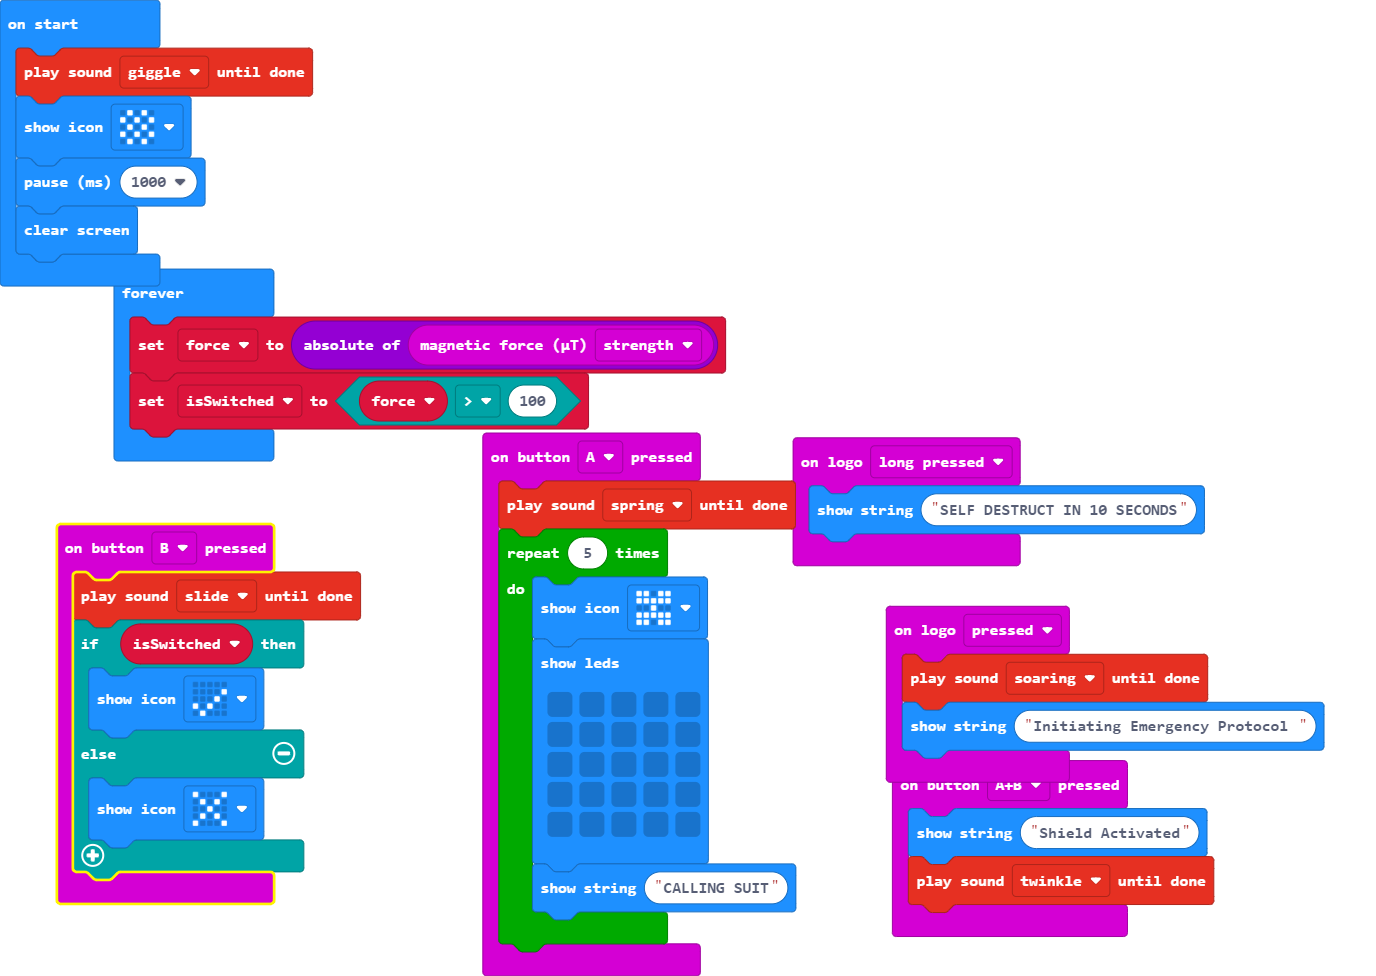
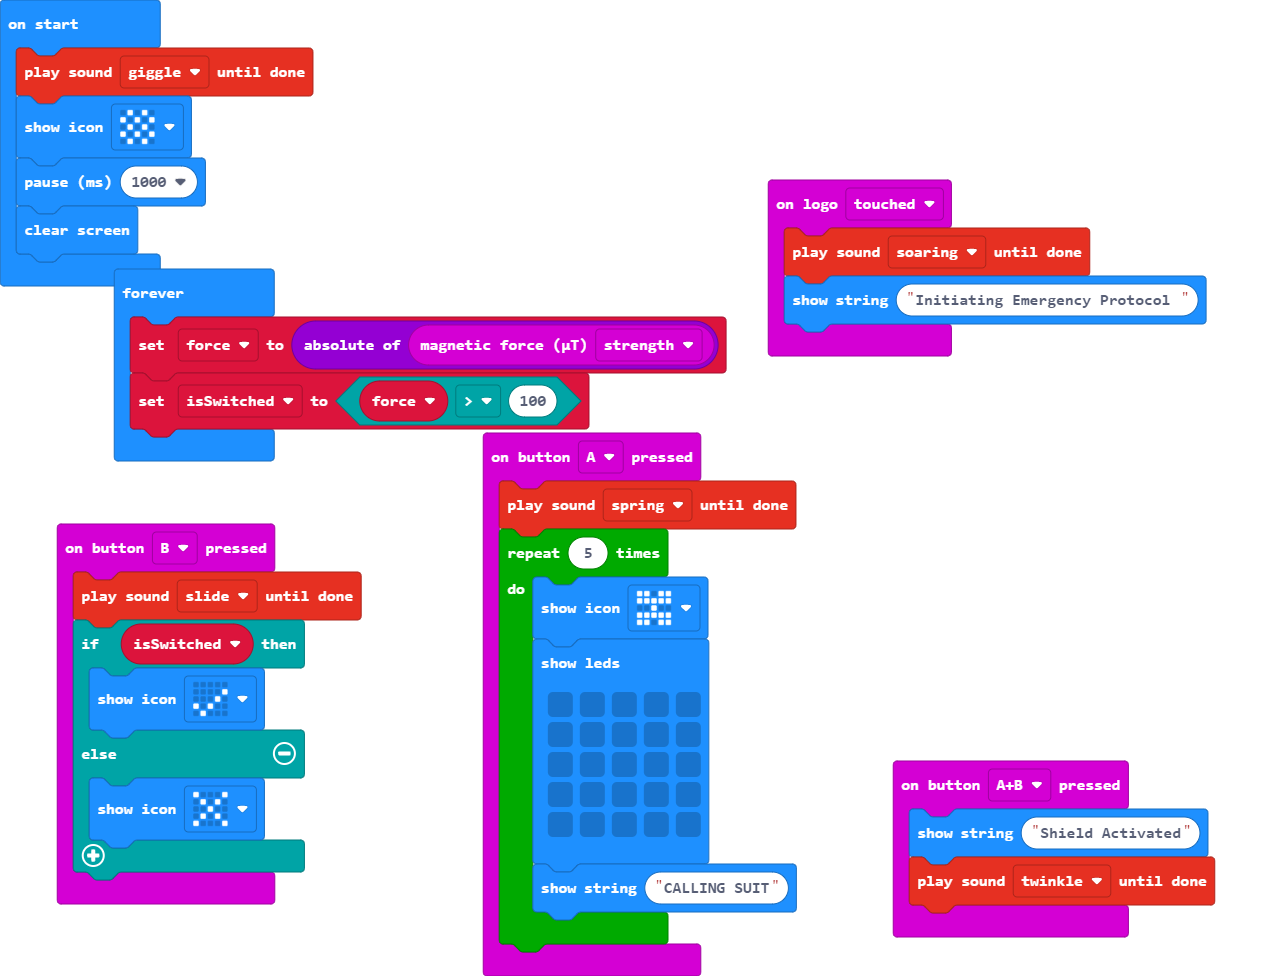
Update main.blocks, main.ts

Changed region(s): [[0.0, 0.0, 0.985, 1.0], [0.0308, 0.5225, 0.3078, 0.9529], [0.0, 0.0, 0.0616, 0.0307]]

diff --git a/main.ts b/main.ts
@@ -1,6 +1,3 @@
-input.onLogoEvent(TouchButtonEvent.LongPressed, function () {
-    basic.showString("SELF DESTRUCT IN 10 SECONDS")
-})
 input.onButtonPressed(Button.A, function () {
     soundExpression.spring.playUntilDone()
     for (let index = 0; index < 5; index++) {
@@ -27,7 +24,7 @@ input.onButtonPressed(Button.B, function () {
         basic.showIcon(IconNames.No)
     }
 })
-input.onLogoEvent(TouchButtonEvent.Pressed, function () {
+input.onLogoEvent(TouchButtonEvent.Touched, function () {
     soundExpression.soaring.playUntilDone()
     basic.showString("Initiating Emergency Protocol ")
 })
